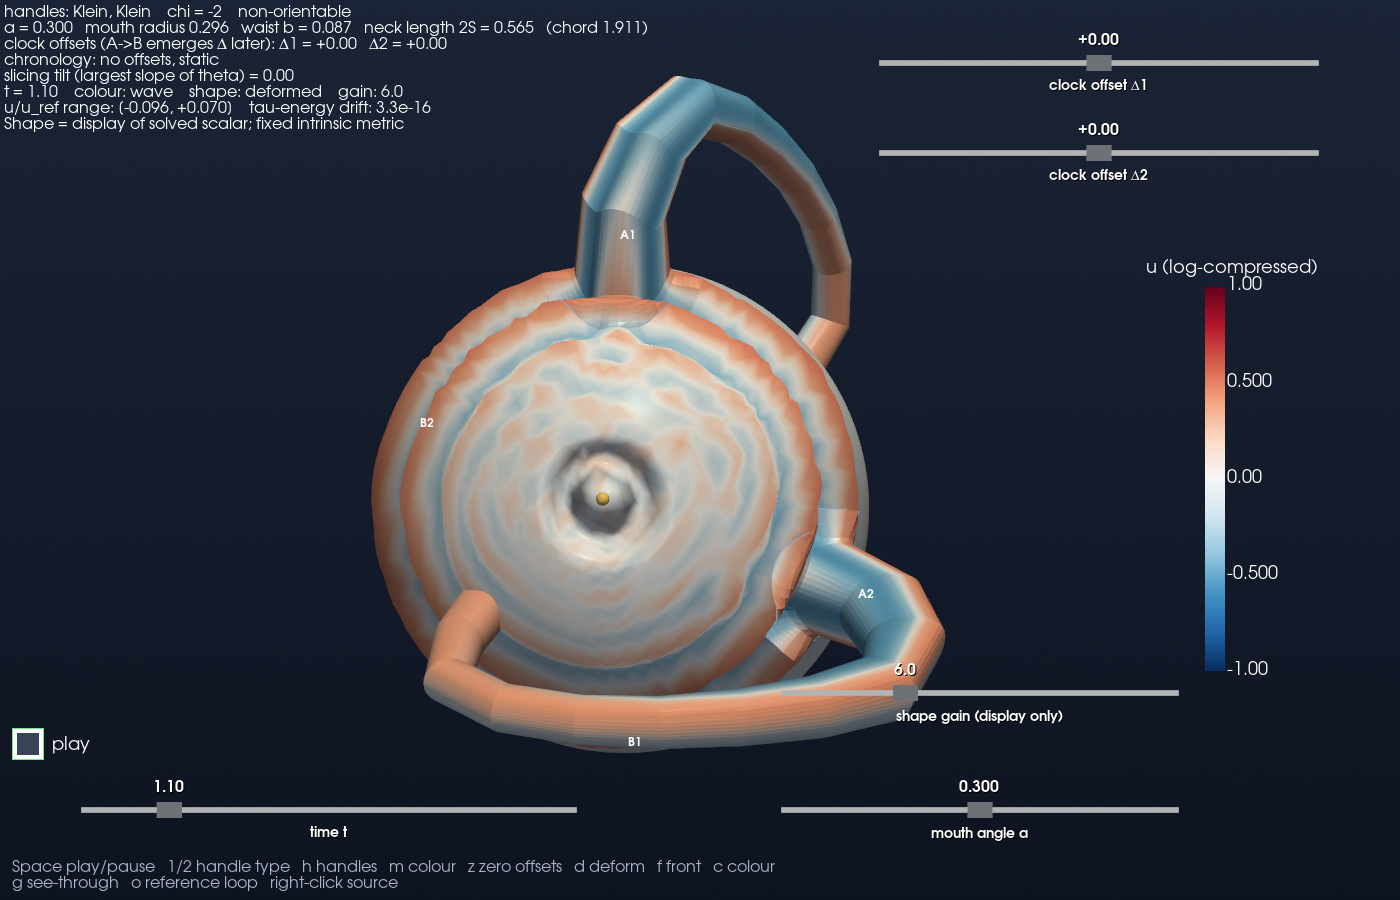
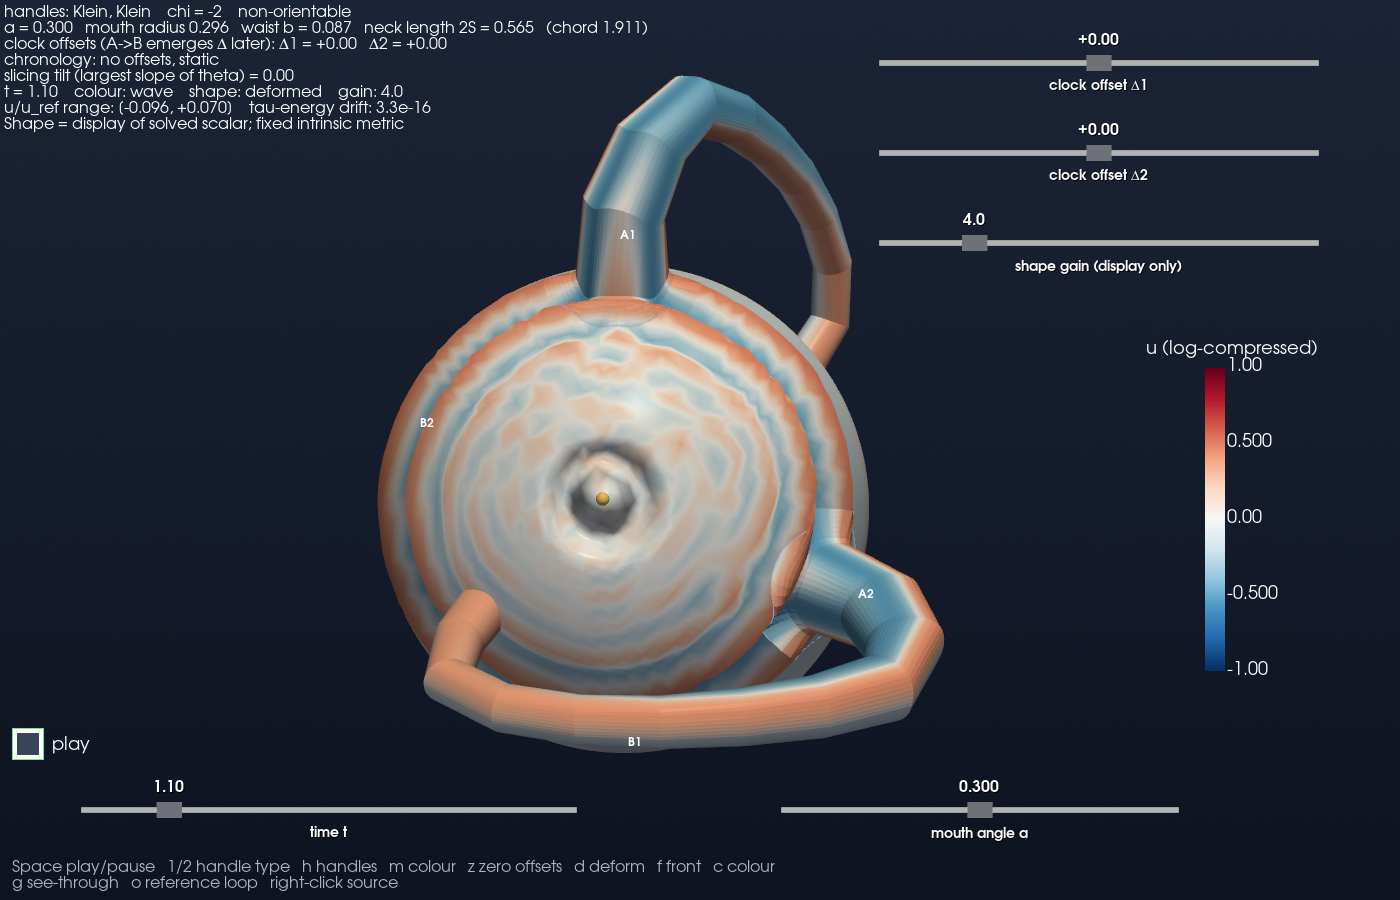
Address visualization review and distinguish bubble transport from mouth scattering

diff --git a/scripts/klein_wormhole_explorer.py b/scripts/klein_wormhole_explorer.py
@@ -100,10 +100,23 @@ def _faces(tris: np.ndarray) -> np.ndarray:
     return np.hstack([np.full((len(tris), 1), 3, dtype=np.int64), tris.astype(np.int64)]).ravel()
 
 
+def reached_contour(mesh, time):
+    """Contour only cells whose vertices all have a finite first arrival.
+
+    Keeping NaN as unknown is important, but interpolating through it can
+    produce NaN coordinates in VTK and corrupt the camera clipping bounds.
+    """
+    reached = mesh.extract_points(np.isfinite(mesh.point_data["arrival"]), adjacent_cells=False)
+    return reached.contour([time], scalars="arrival") if reached.n_cells else pv.PolyData()
+
+
 class Explorer:
     def __init__(self, a=0.3, kinds=(True, True), source=(-0.55, 0.62, 0.56), offsets=(0.0, 0.0),
-                 off_screen=False, window_size=(1400, 900), deform=True, gain=6.0, front=False,
-                 neutral=False):
+                 off_screen=False, window_size=(1400, 900), deform=True, gain=4.0, front=False,
+                 neutral=False, n_sphere=6000):
+        if int(n_sphere) != n_sphere or n_sphere < 100:
+            raise ValueError("n_sphere must be an integer >= 100")
+        self.n_sphere = int(n_sphere)
         self.a = float(a)
         self.kinds = list(kinds)
         self.offsets = [float(v) for v in (list(offsets) + [0.0, 0.0])[:2]]
@@ -135,7 +148,7 @@ class Explorer:
     def build(self):
         """Geometry, then clocks and waves."""
         handles = default_handles(len(self.kinds), self.kinds) if self.kinds else ()
-        self.surf = surf = build_surface(self.a, handles)
+        self.surf = surf = build_surface(self.a, handles, n_sphere=self.n_sphere)
         self.cut = surf.cut()
         self.deformation = ScalarDeformation(surf, self.cut)
         self.loops = loop_lengths(surf)
@@ -221,7 +234,7 @@ class Explorer:
                         show_scalar_bar=(name == ("tubes" if self.tube_mesh.n_cells else "sphere")
                                          and not (self.neutral and self.mode == "wave")),
                         scalar_bar_args=dict(title=title, vertical=True, position_x=0.86, position_y=0.25,
-                                             height=0.45, width=0.04, color="white"))
+                                             height=0.36, width=0.04, color="white"))
             if name == "sphere":
                 actor.GetProperty().SetInterpolationToPhong()
         wlab, wpos = [], []
@@ -279,7 +292,7 @@ class Explorer:
             mesh.Modified()
         t = float(self.times[self.frame])
         lead = self.show_front and self.sim is not None and self.mode in ("wave", "arrival")
-        front = self.full_mesh.contour([t], scalars="arrival") if lead and t > self.times[0] else None
+        front = reached_contour(self.full_mesh, t) if lead and t > self.times[0] else None
         if front is not None and front.n_points:
             self.pl.add_mesh(front, color="white", line_width=3, name="front")
         else:
@@ -383,7 +396,7 @@ class Explorer:
         pl.add_key_event("f", self._toggle_front)
         pl.add_key_event("c", self._toggle_neutral)
         self._slider(self._on_gain, [0.0, max(20.0, self.gain)], self.gain, "shape gain (display only)",
-                     (0.55, 0.23), (0.85, 0.23), "%.1f")
+                     (0.62, 0.73), (0.95, 0.73), "%.1f")
         pl.add_key_event("g", self._toggle_glass)
         pl.add_key_event("o", self._toggle_loop)
         try:
@@ -537,7 +550,8 @@ def main(argv=None):
     ap.add_argument("--source", default="-0.55,0.62,0.56", help="source direction x,y,z on the sphere")
     ap.add_argument("--mode", choices=MODES, default="wave")
     ap.add_argument("--flat", action="store_true", help="compare fixed display geometry")
-    ap.add_argument("--gain", type=float, default=6.0, help="shape exaggeration; fixed launch normalization")
+    ap.add_argument("--gain", type=float, default=4.0, help="shape exaggeration; fixed launch normalization")
+    ap.add_argument("--n-sphere", type=int, default=6000, help="sphere mesh vertices; try 12000 for refinement")
     ap.add_argument("--front", action="store_true", help="show first threshold crossing contour")
     ap.add_argument("--neutral", action="store_true", help="neutral shading to inspect shape without wave colour")
     ap.add_argument("--loop", action="store_true", help="show the orientation loop through handle 1")
@@ -549,7 +563,8 @@ def main(argv=None):
     headless = bool(args.screenshot or args.gif)
     ex = Explorer(a=args.a, kinds=kinds, source=[float(v) for v in args.source.split(",")],
                   offsets=[float(v) for v in args.offsets.split(",")], off_screen=headless,
-                  deform=not args.flat, gain=args.gain, front=args.front, neutral=args.neutral)
+                  deform=not args.flat, gain=args.gain, front=args.front, neutral=args.neutral,
+                  n_sphere=args.n_sphere)
     if args.mode != "wave":
         ex.mode = args.mode
         ex._draw_static()

diff --git a/tests/test_scalar_deformation.py b/tests/test_scalar_deformation.py
@@ -16,10 +16,10 @@ def test_signed_radial_graph_and_shared_rims(kinds):
     points = warp.coordinates(u, 1.0, 3.0)
     np.testing.assert_array_equal(warp.coordinates(u, 1.0, 0.0), warp.reference)
     np.testing.assert_allclose(warp.coordinates(-u, 1.0, 3.0) - warp.reference,
-                               -(points-warp.reference), atol=3e-16)
+                               -(points-warp.reference), rtol=1e-12, atol=1e-14)
     sphere = surf.on_sphere[cut.orig]
     np.testing.assert_allclose(np.linalg.norm(points[sphere], axis=1),
-                               1 + warp.excursion*np.tanh(3*u[sphere]), atol=5e-16)
+                               1 + warp.excursion*np.tanh(3*u[sphere]), rtol=1e-12, atol=1e-14)
     for ids in surf.tube_ids:
         # Both glued ends share precisely the sphere's radial displacement,
         # including the far rim's gluing permutation.
@@ -38,7 +38,7 @@ def test_breathing_at_waist_and_fixed_amplitude_scale():
     u = np.ones(len(warp.reference))*.1
     big = warp.coordinates(u, 1, 3)-warp.reference
     small = warp.coordinates(u/10, 1, 3)-warp.reference
-    np.testing.assert_allclose(small, big*np.tanh(.03)/np.tanh(.3), atol=3e-16)
+    np.testing.assert_allclose(small, big*np.tanh(.03)/np.tanh(.3), rtol=1e-12, atol=1e-14)
 
 
 def test_clock_cut_faces_are_not_welded_or_averaged():

diff --git a/tests/test_scalar_deformation_contour.py b/tests/test_scalar_deformation_contour.py
@@ -1,0 +1,23 @@
+"""Optional PyVista regression: unknown arrivals must never create NaN geometry.
+
+No render window is created. Skips on installations without PyVista.
+"""
+import numpy as np
+import pytest
+
+pv = pytest.importorskip('pyvista')
+from scripts.klein_wormhole_explorer import reached_contour
+
+
+def test_contour_excludes_unreached_cells():
+    mesh = pv.Sphere(theta_resolution=24, phi_resolution=24)
+    values = mesh.points[:, 2].copy()
+    values[mesh.points[:, 0] > .1] = np.nan
+    mesh['arrival'] = values
+    front = reached_contour(mesh, 0.0)
+    assert front.n_points > 0
+    assert np.isfinite(front.points).all()
+    assert np.isfinite(front.bounds).all()
+    assert np.max(front.points[:, 0]) <= .1 + 1e-7
+    mesh['arrival'][:] = np.nan
+    assert reached_contour(mesh, 0.0).n_points == 0

diff --git a/geometrodynamics/viz/scalar_deformation.py b/geometrodynamics/viz/scalar_deformation.py
@@ -40,7 +40,7 @@ class ScalarDeformation:
         self.reference = surf.points[self.cut.orig].copy()
         self.vectors = vectors[self.cut.orig]
 
-    def coordinates(self, field, amplitude: float, gain: float = 6.0):
+    def coordinates(self, field, amplitude: float, gain: float = 4.0):
         """Use external-time cut-mesh samples and a fixed launch normalization.
 
         Positive and negative values produce opposite displacements. No

diff --git a/docs/bubble_wave_mouth_response.md b/docs/bubble_wave_mouth_response.md
@@ -1,0 +1,120 @@
+# Bubble-wave interpretation: refocusing and a carried mouth
+
+The intended picture is a closed background carrying a diffuse deformation
+wave between antipodes, with mouths needed for a localized interaction or
+measurement event, not for the background wave to refocus. A small attached
+feature is carried, stretched and lifted by that wave, then returns. The
+outgoing wave should recover its undisturbed profile in the appropriate
+transparent limit. This is a useful **target to test**, distinct from the
+existing handled-surface scalar calculation.
+
+## 1. Refocusing does not require a mouth
+
+On the round background, rays from a point converge at its antipode and
+continue beyond it. In a polar-distance plot this looks like a reflection:
+the distance from the original source begins decreasing again. No reflecting
+wall or throat needs to be inserted at that coordinate turning point.
+A smooth finite-band scalar solution need not acquire a curvature singularity
+there: a ray caustic and a spacetime curvature singularity are different.
+
+Undamped propagation, however, does not by itself guarantee an identical
+packet on every circuit. For the continuum equation currently approximated by
+the **bare S²** viewer,
+
+    u_tt = c² Δ_S² u,          ω_l = (c/R) sqrt(l(l+1)).
+
+These frequencies are not equally spaced. The field can keep oscillating
+without dissipation while a generic packet changes shape through dephasing.
+Mesh dispersion is an additional effect, not the only source of imperfect
+recurrence. Antipodal parity Y_lm(−x) = (−1)^l Y_lm(x) is a spatial identity;
+turning it into a fixed time-translation identity requires compatible mode
+frequencies. Attaching actual handles also changes the spectrum and breaks
+the round background's focusing property.
+
+An explicit comparator that does have exact recurrence is the conformal
+scalar on a static round **S³** background:
+
+    u_tt = c²(Δ_S³ − 1/R²)u,
+    −Δ_S³ Y_l = l(l+2)Y_l/R²,
+    ω_l = c(l+1)/R.
+
+Writing T = πR/c and P u(x) = u(−x), each oscillator gives
+
+    (u, u_t)(t+T) = −P (u, u_t)(t),
+    (u, u_t)(t+2T) = (u, u_t)(t).
+
+This follows from cos((l+1)π) = (−1)^(l+1) and sin((l+1)π) = 0.
+It holds mode by mode for a finite expansion and extends to appropriate
+finite-energy solutions. It is a comparator with a specified curvature term,
+not a property already proved for the current S² handle solver, minimally
+coupled scalar theory, or tensor gravitational waves. The S² drawing of this
+comparator would be a slice of an S³ field, not an S² wave solve renamed S³.
+
+## 2. A feature carried by the wave is a different control model
+
+A small attached bubble suggests applying a local material displacement map
+F_t to the **whole feature**: its center and shape respond to the surrounding
+surface displacement and gradient. A uniform displacement translates it;
+a spatial gradient stretches or tilts it. If F_t returns to the identity,
+the feature returns as well. Diffuse means its variation scale is large
+compared with the feature radius, not merely that its amplitude is small.
+
+A passive marker defined this way has no reaction on the carrier wave.
+Its transparency is therefore exact **by construction**. That is a valuable
+visual control, but it cannot demonstrate that a gravitating mouth is
+transparent. The current viewer instead modifies the propagation domain by
+adding an intrinsic neck: reflection, transmission, and altered interference
+are possible even though the displayed mesh itself does not feed back.
+PR #338's ambient-vector breathing is also not a solved material response of
+an attached bubble or mouth.
+
+For a physical mouth, return to equilibrium requires its inertia, restoring
+law, and coupling to the scalar or metric perturbation. A conservative
+coupled mouth can retain oscillatory energy after a pulse; damping can relax
+it while transferring energy elsewhere. Even where a long-wavelength limit
+suppresses scattering, exact restoration of the outgoing wave and exact
+mouth recovery must be measured, not supplied as drawing rules.
+The identification of a mouth interaction with measurement remains the BAM
+postulate to be tested, not a result of this visualization.
+
+## 3. Memory is a separate observable
+
+A bound object returning to equilibrium is not equivalent to absence of
+gravitational-wave memory. Restoring forces can erase a detector's residual
+shape even when freely falling test bodies retain a displacement. Nonlinear
+memory is sourced by radiated gravitational-wave energy and is not restricted
+to unequal masses, recoil, or a visibly asymmetric pulse. Angular structure
+of the integrated flux matters; antipodal symmetry alone does not eliminate
+its even multipoles.
+
+For the standard asymptotically flat discussion, see Marc Favata,
+[The gravitational-wave memory effect](https://arxiv.org/abs/1003.3486),
+especially sections 1 and 4–6. That asymptotic construction is not directly
+a memory definition for a closed S³ universe. In BAM the next probe should
+measure a relational residual (separation, strain, and relative velocity of
+specified tracked bodies) in a preselected interval after a passage and
+before the next return. Persistent oscillation, permanent displacement,
+velocity change, and numerical drift must be reported separately.
+
+## Proposed next comparison (not executed here)
+
+1. **Bare round background:** measure antipodal overlap and full-return error
+   for a fixed packet over several circuits. Keep the S² minimal and S³
+   conformal operators explicitly separate. Compare both field and velocity,
+   with the predicted antipodal sign, rather than a moving intensity maximum.
+2. **Passive attached feature:** advect its center and shape with the sampled
+   carrier deformation and gradient. Confirm exact carrier equality as an
+   implementation check; do not count that equality as physical evidence.
+3. **Coupled mouth:** prescribe a conservative response law and its energy
+   ledger, then scan packet wavelength / mouth radius. Measure residual
+   displacement, velocity, internal excitation, reflected/transmitted energy,
+   and outgoing profile error relative to the bare run on a common exterior
+   observation region. Report any time shift separately from shape error.
+
+Before running case 3, set the transparency/recovery tolerance, packet family,
+observation window, and refinement criteria. A residual that remains above
+that tolerance under refinement, or retained mouth excitation inconsistent
+with the claimed return, counts as failure of the transparent-mouth law for
+that regime. No reset of the field or mouth may be inserted at the antipode.
+This comparison can support the bubble intuition in a measured limit without
+making it impossible for the model to fail.

diff --git a/docs/scalar_deformation_viewer.md b/docs/scalar_deformation_viewer.md
@@ -14,7 +14,7 @@ not revive the archive's prescribed pulse or timed mound.
 ## Look first
 
 Same scalar solution, same external time (approximately 1.1), same camera,
-same launch normalization:
+same launch normalization, display gain 4:
 
 | Fixed display geometry | Scalar-driven geometry |
 |---|---|
@@ -48,10 +48,11 @@ server in the development environment. Backend availability varies by machine.
 |---|---|
 | Time / Space | Scrub / play the stored solution |
 | `d` / `--flat` | Deformed / reference display geometry, without rerunning the wave |
-| Gain slider / `--gain` | Shape exaggeration only; default 6 |
+| `--n-sphere 12000` | Refine the sphere mesh (default 6000); increases simulation cost |
+| Gain slider / `--gain` | Shape exaggeration only; default 4 |
 | `c` / `--neutral` | Remove wave colour to inspect shape alone |
 | `f` / `--front` | Optional first-threshold-crossing contour |
-| `g` | Opaque / transparent sphere |
+| `g` | Opaque / transparent sphere; use this to see the Klein entry through the wall |
 | `m` | Wave / first arrival / slicing tilt / curvature |
 | `o` | Orientation loop on the **reference** geometry |
 | Right-click | Relaunch at the corresponding intrinsic sphere vertex |
@@ -123,3 +124,27 @@ the solver, all four colour modes, nonzero offsets, bare-sphere focusing, and
 #337's chronology-refusal state. Both PNGs and the 48-frame GIF were rendered
 and inspected, including intermediate and final movie frames. Sphere lighting
 uses updated smooth normals; the underlying vertex geometry is not smoothed.
+
+## Review follow-up and bubble interpretation
+
+The first-arrival contour now excludes any cell with an unknown arrival,
+preventing VTK from interpolating NaN positions. The default gain is reduced
+from 6 to 4, the gain slider sits below the clock controls, and
+`--n-sphere 12000` allows a mesh comparison. Display identities use portable
+floating-point tolerances. The example images have been regenerated.
+
+The opaque default is retained for reading deformation. Press **g** to see
+the Klein handle's interior entry. Clock jumps are primarily visible in
+colour and the gold waist rings: the independent review measured only
+0.006–0.007 separation for offsets (−0.8,+0.6), time 1.0, gain 6. Those
+values are below 1% of the unit sphere radius, not a large opening.
+
+For the next physical comparison, see [bubble propagation and mouth
+response](bubble_wave_mouth_response.md). It distinguishes mouth-free
+refocusing, passive attached features, and a dynamically coupled mouth.
+
+Review-fix validation: the 8 display tests plus the new optional PyVista
+NaN-contour regression passed (9 targeted tests). The 27 unchanged
+handle/clock tests had also been independently reproduced on the prior
+commit. The contour regression runs without opening a render window and
+skips when PyVista is not installed.
